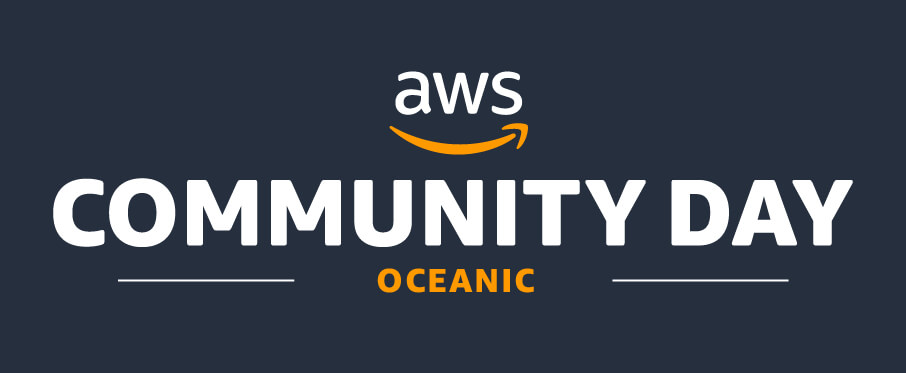
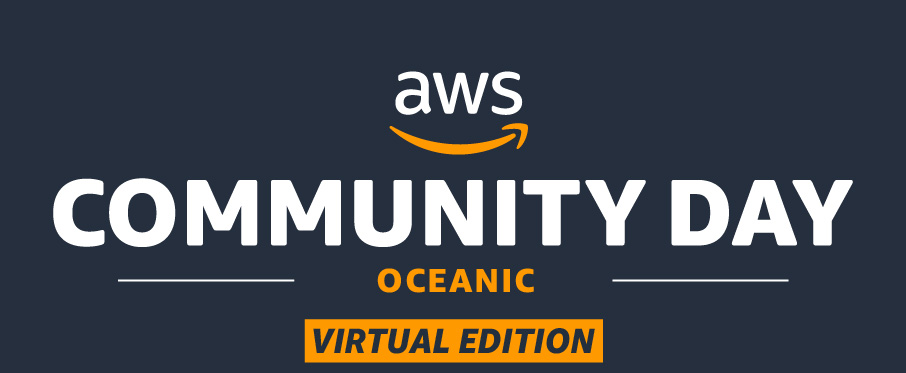
feat: update awscd event contents
update member details

update virtual website contents

Changed region(s): [[0.3091, 0.8552, 0.6799, 0.9732]]

diff --git a/inperson.html b/inperson.html
@@ -481,11 +481,11 @@
             <div class="col-sm"></div>
             <div class="col-lg">
               <img
-                  class="center-block"
-                  src="images/aws_cd_nz.png"
-                  alt="AWS Community Day Aotearoa"
-                  width="100%"
-                />
+                class="center-block"
+                src="images/aws_cd_nz.png"
+                alt="AWS Community Day Aotearoa"
+                width="100%"
+              />
             </div>
             <div class="col-sm"></div>
           </div>
@@ -727,13 +727,13 @@
                   The goal of the Community Day is to facilitate the exchange of information amongst
                   the AWS user community. The presentations are all given by speakers who are fellow
                   AWS users sharing knowledge with their peers.
-                </p>
-              </div>
+              </p>
             </div>
-            <!-- col end-->
           </div>
+            <!-- col end-->
+                </div>
           <!-- row end-->
-        </div>
+              </div>
         <!-- container end-->
       </section>
       <!-- ts intro end-->
@@ -1932,7 +1932,7 @@
               >
                 ORGANISING COMMITTEE
               </h3>
-          </div>
+            </div>
 
 
 <div class="container">
@@ -1954,9 +1954,9 @@
       </a>
       <div style="margin-top: 20px; font-size: 18px">
         Arshad Zackeriya
-      </div>
+                </div>
       <div style="margin-top: 20px; font-size: 14px">Senior Engineer at Xero | AWS Hero</div>
-    </div>
+              </div>
 
     <div
       class="col-sm-6 col-xs-12 col-md-2 col-lg-2 col-xl-2 wow animated animate__animated animate__fadeInDown"
@@ -1972,9 +1972,9 @@
       </a>
       <div style="margin-top: 20px; font-size: 18px">
         Chamila de Alwis
-      </div>
+            </div>
       <div style="margin-top: 20px; font-size: 14px">AWS Consultant | AWS Community Builder</div>
-    </div>
+          </div>
 
     <div
       class="col-sm-6 col-xs-12 col-md-2 col-lg-2 col-xl-2 wow animated animate__animated animate__fadeInDown"
@@ -1990,7 +1990,7 @@
       </a>
       <div style="margin-top: 20px; font-size: 18px">
         Darshit Pandya
-      </div>
+        </div>
       <div style="margin-top: 20px; font-size: 14px">Senior Principal Engineer - Paltform at Serko | AWS Community Builder</div>
     </div>
 
@@ -2333,14 +2333,14 @@
                 <div>
                   <p class="lead text-center mt-5 mb-4">
                     In short, let's be excellent to each other!
-                  </p>
-                </div>
+                </p>
+              </div>
 
                 <div>
                   <p class="text-center">This code of conduct was adapted from the <a title="Link to AWS Community Code of Conduct Page" href="https://aws.amazon.com/codesofconduct/" target="_blank" rel="noopener">AWS Community Code of Conduct.</a></p>
-                </div>
-              </div>
             </div>
+          </div>
+        </div>
             <!-- col end-->
           </div>
           <!-- row end-->
@@ -2352,9 +2352,9 @@
       <!-- ts footer area start-->
       <div class="footer-area wow animate__animated animate__fadeInUp">
         <!-- footer start-->
-        <footer class="ts-footer ts-footer-item">
-          <div class="container">
-            <div class="row footer-border">
+      <footer class="ts-footer ts-footer-item">
+        <div class="container">
+          <div class="row footer-border">
               <div class="col-lg-5"></div>
               <div class="col-lg-7">
                 <!-- footer social end-->
@@ -2366,53 +2366,53 @@
                 <!-- footer menu end-->
 
                 <div class="ts-footer-social">
-                  <ul>
-                    <li>
-                      <a href="https://awsug.nz/" target="_blank"
-                        ><i class="fa fa-meetup"></i
-                      ></a>
-                    </li>
-                    <li>
-                      <a
-                        href="https://www.linkedin.com/company/aws-user-group-aotearoa/"
-                        target="_blank"
-                        ><i class="fa"
-                          ><img
[1 lines of base64/hex data omitted]
-                      ></a>
-                    </li>
-                    <li>
-                      <a
-                        href="mailto:enquiries@awsug.nz"
-                        target="_blank"
-                        ><i class="fa fa-email"
-                          ><img
+                <ul>
+                  <li>
+                    <a href="https://awsug.nz/" target="_blank"
+                      ><i class="fa fa-meetup"></i
+                    ></a>
+                  </li>
+                  <li>
+                    <a
+                      href="https://www.linkedin.com/company/aws-user-group-aotearoa/"
+                      target="_blank"
+                      ><i class="fa"
+                        ><img
[1 lines of base64/hex data omitted]
+                    ></a>
+                  </li>
+                  <li>
+                    <a
+                      href="mailto:enquiries@awsug.nz"
+                      target="_blank"
+                      ><i class="fa fa-email"
+                        ><img
[1 lines of base64/hex data omitted]
-                      ></a>
-                    </li>
-                    <li>
-                      <a href="#code-of-conduct">
-                        <i class="fa">
-                          <img src="images/coduct.png"/>
-                        </i>
-                      </a>
-                    </li>
-                  </ul>
-                </div>
+                    ></a>
+                  </li>
+                  <li>
+                    <a href="#code-of-conduct">
+                      <i class="fa">
+                        <img src="images/coduct.png"/>
+                      </i>
+                    </a>
+                  </li>
+                </ul>
               </div>
+            </div>
               <!-- col end-->
               <div class="col-lg-4" style="font-size: 18px">
                 <div class="copyright-text text-right"></div>
-              </div>
-            </div>
+          </div>
+        </div>
             <!-- row end-->
           </div>
           <!-- container end-->
-        </footer>
+      </footer>
         <!-- footer end-->
-        <div class="BackTo">
-          <a href="#" class="fa fa-angle-up" aria-hidden="true"></a>
-        </div>
+      <div class="BackTo">
+        <a href="#" class="fa fa-angle-up" aria-hidden="true"></a>
+      </div>
       </div>
       <!-- ts footer area end-->
 

diff --git a/virtual.html b/virtual.html
@@ -644,10 +644,12 @@
                       </span>
                       <span class="d-block mt-3">
                         <span class="mb-2 text-muted">
-                          Location : 
+                          Platform : 
                         </span>
                         <span class="mt-2 h5" style="font-weight: bold;">
-                          Online (Youtube, Linkedin, Twitch)
+                          <img src="images/yt_logo_rgb_dark.png" style="height:20px;" alt="YouTube" />&nbsp;
+                          <img src="images/LI-Logo.png" style="height: 20px;" alt="LinkedIn" />&nbsp;
+                          <img src="images/twitch_wordmark_flat_white.png" style="height:20px;" alt="Twitch" />
                         </span>
                       </span>
                       <span class="d-block mt-3">
@@ -658,10 +660,7 @@
                           <span style="font-size: 14px">  
                             <!-- (Main event, Track 2) -->
                           </span>                      
-                          <a href="https://maps.app.goo.gl/G4wQSSLHATjcPvMx8" target="_blank">
-                            <i class="ml-2 mr-2 fa fa-lg fa-map-marker" style="color: orange;">
-                            </i>
-                          </a>
+                            <i class="ml-2 mr-2 fa fa-lg fa-map-marker" style="color: orange;"></i>
                         </span>
                       </span>  
                       <!-- <span class="mt-2 d-block">
@@ -1974,7 +1973,7 @@
       <div style="margin-top: 20px; font-size: 18px">
         Casey Orr
       </div>
-      <div style="margin-top: 20px; font-size: 14px">Snr. Solutions Architect at AWS
+      <div style="margin-top: 20px; font-size: 14px">Snr Solutions Architect at Amazon Web Services
       </div>
     </div>
 
@@ -2058,7 +2057,7 @@
       <div style="margin-top: 20px; font-size: 14px">Platform Engineer at GNS Science</div>
     </div>
 
-    <div
+    <!-- <div
       class="col-sm-6 col-xs-12 col-md-2 col-lg-2 col-xl-2 wow animated animate__animated animate__fadeInDown"
       style="text-align: center "
     >
@@ -2068,7 +2067,7 @@
       >
         <img
           class="img-fluid image-border"
-          src="images/team/michael-rewiri-thorsen.jpg"
+          src="images/team/michael_rewiri_thorsen.jpg"
           alt="Michael Rewiri-Thorsen"
           width="230"
         />
@@ -2078,7 +2077,7 @@
       </div>
       <div style="margin-top: 20px; font-size: 14px">Content Creator
       </div>
-    </div>
+    </div> -->
 
     <div
       class="col-sm-6 col-xs-12 col-md-2 col-lg-2 col-xl-2 wow animated animate__animated animate__fadeInDown"

diff --git a/index.html b/index.html
@@ -223,7 +223,11 @@
                   </p>
                   <div class="event-details">
                     <p><strong>When:</strong> 10th August 2025</p>
-                    <p><strong>Platform:</strong> Online (Youtube, Linkedin, Twitch)</p>
+                    <p><strong>Platform:</strong> Online 
+                      <img src="images/yt-logo.png" style="height:20px;" alt="YouTube" />&nbsp;
+                      <img src="images/linkedin-in-white.png" style="height:20px;" alt="LinkedIn" />&nbsp;
+                      <img src="images/twitch_glitch_flat_white.png" style="height:20px;" alt="Twitch" />
+                    </p>
                     <p><strong>Access:</strong> Global</p>
                   </div>
                   <a href="virtual.html" class="btn btn-primary">EXPLORE VIRTUAL</a>
